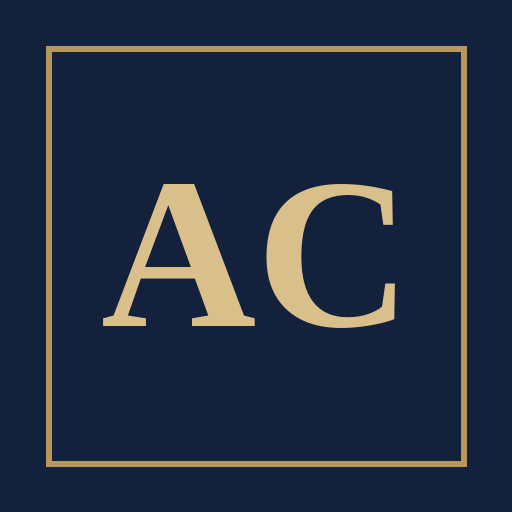
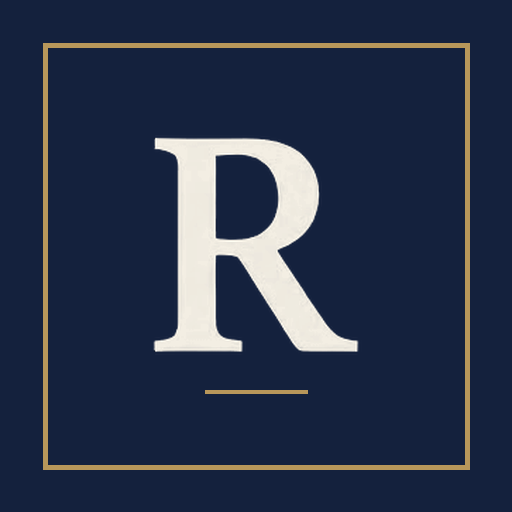
commit & push

Changed region(s): [[0.0625, 0.0625, 0.9375, 0.9375], [0.1875, 0.25, 0.7812, 0.6875], [0.4062, 0.75, 0.5938, 0.7812]]

diff --git a/src/shared/components/Layout.jsx b/src/shared/components/Layout.jsx
@@ -36,16 +36,6 @@ const Badge = ({ n }) => n > 0 ? (
   <span style={{ marginLeft: 'auto', background: '#9B2C2C', color: '#fff', borderRadius: 10, fontSize: 11, fontWeight: 700, padding: '1px 7px' }}>{n}</span>
 ) : null
 
-function AdminChirieLogo({ size = 32 }) {
-  // Monogramă: contur auriu pe navy
-  return (
-    <svg width={size} height={size} viewBox="0 0 100 100" xmlns="http://www.w3.org/2000/svg" aria-hidden="true">
-      <rect x="2" y="2" width="96" height="96" fill="none" stroke="#B8975A" strokeWidth="4"/>
-      <text x="50" y="66" textAnchor="middle" fontFamily="'Cormorant Garamond', Georgia, serif" fontSize="48" fontWeight="600" fill="#D9BF8A">AC</text>
-    </svg>
-  )
-}
-
 export default function Layout() {
   const { user, profile, isAdmin, logout } = useAuth()
   const navigate  = useNavigate()
@@ -85,16 +75,13 @@ export default function Layout() {
         <aside className={`sidebar${sidebarOpen ? ' open' : ''}`}>
           <div className="sidebar-logo">
             <div style={{ display: 'flex', alignItems: 'center', justifyContent: 'space-between' }}>
-              <div className="sidebar-logo-mark" style={{ display: 'flex', alignItems: 'center', gap: 8 }}>
-                <AdminChirieLogo size={28} />
-                <span>AdminChirie</span>
-              </div>
+              <img src="/logo-rentis-mark-light.png" alt="Rentis" style={{ width: 168, height: 'auto', display: 'block' }} />
               <button onClick={() => setSidebarOpen(false)} className="sidebar-close-btn"
                 style={{ background: 'none', border: 'none', cursor: 'pointer', fontSize: 20, color: '#D9BF8A', padding: 4, display: 'none' }}>
                 <i className="ti ti-x" />
               </button>
             </div>
-            <div className="sidebar-logo-sub">Gestionare imobile</div>
+            <div className="sidebar-logo-sub">Intelligent Property Management</div>
           </div>
 
           <nav className="sidebar-nav">
@@ -186,5 +173,5 @@ function getPageTitle(path) {
     '/emite-utilitati': 'Factură utilități', '/emise': 'Facturi emise',
     '/furnizori': 'Furnizori', '/utilizatori': 'Utilizatori', '/config': 'Configurare',
   }
-  return map[path] || map[path.split('/').slice(0, 2).join('/')] || 'AdminChirie'
+  return map[path] || map[path.split('/').slice(0, 2).join('/')] || 'Rentis'
 }

diff --git a/index.html b/index.html
@@ -3,28 +3,30 @@
   <head>
     <meta charset="UTF-8" />
     <meta name="viewport" content="width=device-width, initial-scale=1.0" />
-    <title>AdminChirie</title>
+    <title>Rentis</title>
 
-    <!-- PWA Manifest -->
-    <link rel="manifest" href="/public/manifest.json">
+    <!-- PWA Manifest (căile sunt la rădăcină: fișierele din public/ se publică la /) -->
+    <link rel="manifest" href="/manifest.json?v=3">
 
     <!-- Favicon desktop -->
-    <link rel="icon" type="image/svg+xml" href="/public/icon.svg">
-    <link rel="icon" type="image/png" sizes="192x192" href="/public/icon-192.png">
+    <link rel="icon" type="image/svg+xml" href="/icon.svg?v=3">
+    <link rel="icon" type="image/png" sizes="32x32" href="/favicon-32.png?v=3">
+    <link rel="icon" type="image/png" sizes="192x192" href="/icon-192.png?v=3">
 
-    <!-- Apple Touch Icon — iOS home screen -->
-    <link rel="apple-touch-icon" sizes="180x180" href="/public/apple-touch-icon.png">
+    <!-- Apple Touch Icon — iPhone / iPad (ecran principal) -->
+    <link rel="apple-touch-icon" sizes="180x180" href="/apple-touch-icon.png?v=3">
 
     <!-- PWA meta tags -->
     <meta name="theme-color" content="#14213D">
     <meta name="background-color" content="#14213D">
-    <meta name="description" content="Gestionare imobile, chirie și utilități">
+    <meta name="description" content="Rentis — Intelligent Property Management">
 
     <!-- iOS PWA -->
     <meta name="apple-mobile-web-app-capable" content="yes">
     <meta name="mobile-web-app-capable" content="yes">
     <meta name="apple-mobile-web-app-status-bar-style" content="black-translucent">
-    <meta name="apple-mobile-web-app-title" content="AdminChirie">
+    <meta name="apple-mobile-web-app-title" content="Rentis">
+    <meta name="application-name" content="Rentis">
 
     <!-- Fonts & Icons -->
     <link rel="preconnect" href="https://fonts.googleapis.com">

diff --git a/src/shared/components/EnvCheck.jsx b/src/shared/components/EnvCheck.jsx
@@ -32,7 +32,7 @@ export default function EnvCheck({ children }) {
     // Toate variabilele obligatorii sunt prezente — pornește normal
     // Dacă există variabile opționale lipsă, afișează doar un avertisment mic în consolă
     if (optional.length > 0) {
-      console.warn('[AdminChirie] Variabile opționale lipsă (funcționalitate redusă):', optional.map(v => v.key).join(', '))
+      console.warn('[Rentis] Variabile opționale lipsă (funcționalitate redusă):', optional.map(v => v.key).join(', '))
     }
     return children
   }
@@ -49,14 +49,9 @@ export default function EnvCheck({ children }) {
       <div style={{ maxWidth: 560, width: '100%' }}>
         {/* Logo */}
         <div style={{ display: 'flex', alignItems: 'center', gap: 12, marginBottom: 32 }}>
-          <svg width="40" height="40" viewBox="0 0 100 100">
-            <rect width="100" height="100" rx="16" fill="#14213D"/>
-            <polygon points="50,18 80,40 80,75 20,75 20,40" fill="white"/>
-            <rect x="40" y="55" width="20" height="20" rx="2" fill="#14213D"/>
-            <polyline points="16,43 50,15 84,43" fill="none" stroke="white" strokeWidth="4" strokeLinecap="round"/>
-          </svg>
+          
           <div>
-            <div style={{ color: 'white', fontWeight: 700, fontSize: 20 }}>AdminChirie</div>
+            <div style={{ color: 'white', fontWeight: 700, fontSize: 20 }}>Rentis</div>
             <div style={{ color: '#6B6B70', fontSize: 13 }}>Configurare incompletă</div>
           </div>
         </div>
@@ -131,7 +126,7 @@ export default function EnvCheck({ children }) {
 
         {/* Footer */}
         <div style={{ textAlign: 'center', marginTop: 24, color: '#2A2A30', fontSize: 12 }}>
-          AdminChirie — verificare automată la pornire
+          Rentis — verificare automată la pornire
         </div>
       </div>
     </div>

diff --git a/src/modules/administrare/services/pdfRapoarte.js b/src/modules/administrare/services/pdfRapoarte.js
@@ -15,7 +15,7 @@ function header(doc, W, ml, mr, titlu, subtitlu, perioada) {
   doc.setFillColor(20, 33, 61)
   doc.rect(ml, y, mr - ml, 12, 'F')
   doc.setFontSize(13); doc.setFont('helvetica', 'bold'); doc.setTextColor(255, 255, 255)
-  doc.text('AdminChirie — ' + titlu, ml + 4, y + 8)
+  doc.text('Rentis — ' + titlu, ml + 4, y + 8)
   doc.setFontSize(9); doc.setFont('helvetica', 'normal')
   doc.text(TODAY, mr - 2, y + 8, { align: 'right' })
   y += 16
@@ -126,7 +126,7 @@ export function exportRaportClient({ client, spatii, contoare, citiri, perioada 
   y += 10
 
   doc.setFontSize(7); doc.setTextColor(150, 150, 150); doc.setFont('helvetica', 'normal')
-  doc.text('Raport generat automat — AdminChirie', W / 2, y, { align: 'center' })
+  doc.text('Raport generat automat — Rentis', W / 2, y, { align: 'center' })
 
   doc.save(`Raport_${client?.nume?.replace(/\s+/g, '_') || 'client'}_${TODAY.replace(/\s/g, '_')}.pdf`)
 }
@@ -210,7 +210,7 @@ export function exportRaportGeneral({ clienti, spatii, contoare, citiri, perioad
   }
 
   doc.setFontSize(7); doc.setTextColor(150, 150, 150); doc.setFont('helvetica', 'normal')
-  doc.text('Raport generat automat — AdminChirie', W / 2, 285, { align: 'center' })
+  doc.text('Raport generat automat — Rentis', W / 2, 285, { align: 'center' })
   doc.save(`Raport_General_${TODAY.replace(/\s/g, '_')}.pdf`)
 }
 
@@ -280,6 +280,6 @@ export function exportRaportImobil({ imobile, spatii, clienti, contoare, citiri,
   })
 
   doc.setFontSize(7); doc.setTextColor(150, 150, 150); doc.setFont('helvetica', 'normal')
-  doc.text('Raport generat automat — AdminChirie', W / 2, 285, { align: 'center' })
+  doc.text('Raport generat automat — Rentis', W / 2, 285, { align: 'center' })
   doc.save(`Raport_Imobil_${TODAY.replace(/\s/g, '_')}.pdf`)
 }

diff --git a/src/shared/pages/Portal.jsx b/src/shared/pages/Portal.jsx
@@ -135,13 +135,7 @@ export default function Portal() {
       {/* Header */}
       <div style={styles.header}>
         <div style={styles.logo}>
-          <svg width="36" height="36" viewBox="0 0 100 100">
-            <rect width="100" height="100" rx="16" fill="#14213D"/>
-            <polygon points="50,18 80,40 80,75 20,75 20,40" fill="white"/>
-            <rect x="40" y="55" width="20" height="20" rx="2" fill="#14213D"/>
-            <polyline points="16,43 50,15 84,43" fill="none" stroke="white" strokeWidth="4" strokeLinecap="round"/>
-          </svg>
-          <span style={{ fontWeight: 700, color: '#14213D', fontSize: 18 }}>AdminChirie</span>
+          <img src="/logo-rentis-mark.png" alt="Rentis" style={{ height: 40, width: 'auto' }} />
         </div>
         <h1 style={styles.titlu}>{portal?.titlu || 'Citire contoare'}</h1>
         <p style={styles.adresare}>{portal?.adresare || 'Vă rugăm să introduceți indexurile lunare:'}</p>

diff --git a/src/shared/pages/Login.jsx b/src/shared/pages/Login.jsx
@@ -28,9 +28,7 @@ export default function Login() {
     <div className="login-wrap">
       <div className="login-card">
         <div className="login-logo">
-          <div style={{ width: 52, height: 52, margin: '0 auto 14px', border: '1px solid var(--gold)', background: 'var(--blue)', color: 'var(--gold-light)', display: 'flex', alignItems: 'center', justifyContent: 'center', fontFamily: 'var(--serif)', fontSize: 26, fontWeight: 600 }} aria-hidden="true">AC</div>
-          <h1>AdminChirie</h1>
-          <p style={{ letterSpacing: '.18em', textTransform: 'uppercase', fontSize: 10.5 }}>Gestionare imobile</p>
+          <img src="/logo-rentis.png" alt="Rentis — Intelligent Property Management" style={{ width: 280, maxWidth: '100%', height: 'auto' }} />
         </div>
 
         {error && <div className="login-err">{error}</div>}

diff --git a/src/modules/administrare/services/exportContoare.js b/src/modules/administrare/services/exportContoare.js
@@ -16,7 +16,7 @@ export async function exportDateContoare(allContoare, spatii, imobile) {
   setF(16, 'bold'); color(20, 33, 61)
   doc.text('EXPORT DATE CONTOARE', W / 2, y, { align: 'center' }); y += 7
   setF(9, 'normal'); color(100, 100, 100)
-  doc.text(`Generat: ${new Date().toLocaleDateString('ro-RO')} · AdminChirie`, W / 2, y, { align: 'center' }); y += 8
+  doc.text(`Generat: ${new Date().toLocaleDateString('ro-RO')} · Rentis`, W / 2, y, { align: 'center' }); y += 8
   draw(200, 200, 200); doc.line(ml, y, mr, y); y += 6
 
   // Grupare pe imobil → spațiu

diff --git a/src/modules/administrare/services/pdfService.js b/src/modules/administrare/services/pdfService.js
@@ -113,7 +113,7 @@ export function genereazaNotaCalcul({ imobil, spatiu, client, chirie, liniiUtili
   // ── Footer ────────────────────────────────────────────────────
   setF(8, 'normal'); color(150, 150, 150)
   text(`Întocmit: ${userNume || ''}   |   Data: ${data}`, ml, y)
-  text('Document generat automat — Imobiliare Admin', mr, y, { align: 'right' })
+  text('Document generat automat — Rentis', mr, y, { align: 'right' })
 
   return { doc, nr }
 }

diff --git a/src/modules/administrare/services/pdfNotaAdministratie.js b/src/modules/administrare/services/pdfNotaAdministratie.js
@@ -120,7 +120,7 @@ export function genereazaNotaAdministratie({ spatiu, imobil, client, citiri, per
   draw(200, 200, 200); line(ml, y, mr, y); y += 8
   setF(8, 'normal'); color(150, 150, 150)
   doc.text(`Întocmit: ${userNume || ''}   ·   Data: ${data}`, ml, y)
-  doc.text('Document generat — AdminChirie', mr, y, { align: 'right' })
+  doc.text('Document generat — Rentis', mr, y, { align: 'right' })
 
   return { doc, nr }
 }

diff --git a/src/index.css b/src/index.css
@@ -457,3 +457,7 @@ input[type=checkbox], input[type=radio] { accent-color: var(--blue); }
   th, td { padding: 12px 14px; }
   .modal-box { border-radius: var(--radius) var(--radius) 0 0; }
 }
+
+/* Slogan sub logo: încape pe 1–2 rânduri în meniul lateral */
+.sidebar-logo-sub { font-size: 9.5px; letter-spacing: .14em; line-height: 1.6; margin-top: 12px; }
+.login-logo img   { display: block; margin: 0 auto 6px; }

diff --git a/src/modules/administrare/services/logoService.js b/src/modules/administrare/services/logoService.js
@@ -1,4 +1,4 @@
-// SVG logo AdminChirie — folosit în app și exportat ca favicon
+// SVG logo Rentis — folosit în app și exportat ca favicon
 export const LOGO_SVG = `<svg xmlns="http://www.w3.org/2000/svg" viewBox="0 0 100 100">
   <rect width="100" height="100" rx="16" fill="#14213D"/>
   <path d="M50 18 L82 42 L82 78 L18 78 L18 42 Z" fill="white" opacity="0.15"/>

diff --git a/README.md b/README.md
@@ -1,4 +1,4 @@
-# Imobiliare Admin
+# Rentis — Intelligent Property Management
 
 Aplicație web pentru gestionarea facturilor de chirie și utilități, cu integrare FGO, EmailJS și Firebase.
 
